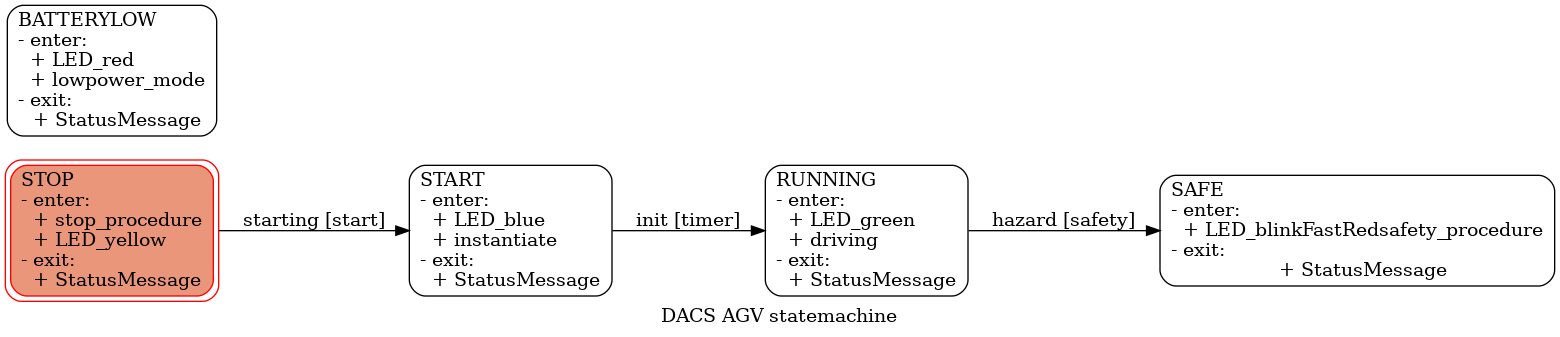
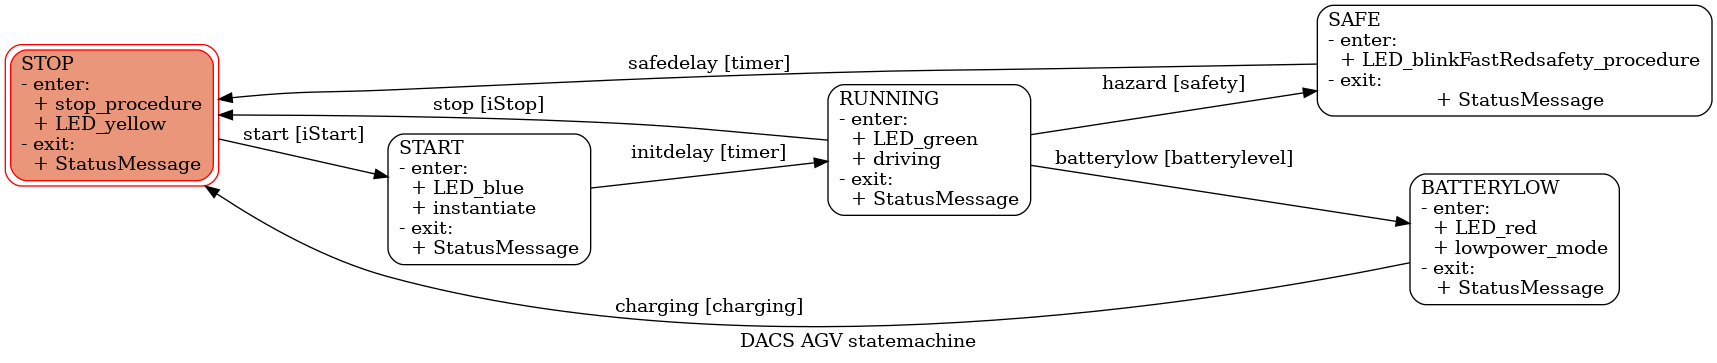
added statemachine.py

diff --git a/statemachine.py b/statemachine.py
@@ -8,32 +8,15 @@ class agv_machine(object):
         pass
 
     def start(self):
-        time.sleep(5)
-        value = 0.4
-        print(value)  
-        if value > 0.3:
-            return True
-        else:
+
             return False
 
     def timer(self):
-        time.sleep(5)
-        value = 0.6
-        print(value)
-       
-        if value > 0.5:
-            return True
-        else:
+
            return False 
 
     def safety(self):
-        time.sleep(5)
-        value = 0.6
-        print(value) 
-       
-        if value > 0.5:
-            return True
-        else:
+
            return False         
 
     extra_args = dict(initial='STOP', title='DACS AGV statemachine',
@@ -48,24 +31,24 @@ class agv_machine(object):
         ]
 
     transitions = [
-        {'trigger': 'starting', 'source': 'STOP', 'dest': 'START',
-        'conditions':'start'},
-        {'trigger': 'init', 'source': 'START', 'dest': 'RUNNING',
+        {'trigger': 'start', 'source': 'STOP', 'dest': 'START',
+        'conditions':'iStart'},
+        {'trigger': 'initdelay', 'source': 'START', 'dest': 'RUNNING',
         'conditions':'timer'},
         {'trigger': 'hazard', 'source': 'RUNNING', 'dest': 'SAFE',
         'conditions':'safety'},
+        {'trigger': 'batterylow', 'source': 'RUNNING', 'dest': 'BATTERYLOW',
+        'conditions':'batterylevel'},
+        {'trigger': 'charging', 'source': 'BATTERYLOW', 'dest': 'STOP',
+        'conditions':'charging'},
+        {'trigger': 'stop', 'source': 'RUNNING', 'dest': 'STOP',
+        'conditions':'iStop'},
+        {'trigger': 'safedelay', 'source': 'SAFE', 'dest': 'STOP',
+        'conditions':'timer'},
         ]
 
     
 
-model = agv_machine()
-machine = Machine(model=model, states=agv_machine.states, transitions=agv_machine.transitions, 
-                       show_auto_transitions=False, **agv_machine.extra_args, use_pygraphviz=False)
 
-model.get_graph().draw('agv_state_diagram.png', prog='dot')
-
-if __name__ == '__main__':
-    agv_machine = agv_machine()
-    print(model.state)
 
     
